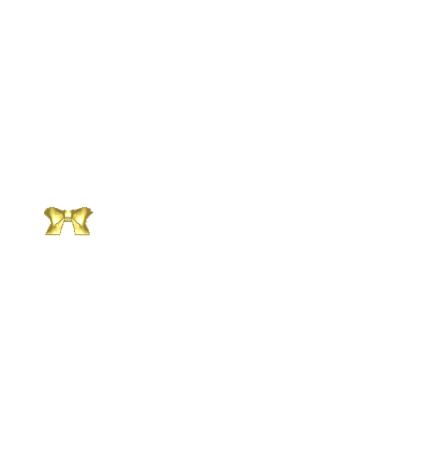
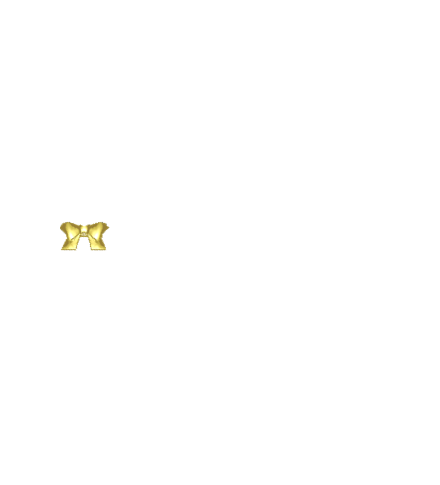
asset position fix 3

Changed region(s): [[0.092, 0.417, 0.2453, 0.5362]]

diff --git a/BondageClub/Assets/Female3DCG/Female3DCG.js b/BondageClub/Assets/Female3DCG/Female3DCG.js
@@ -1062,9 +1062,9 @@ var AssetFemale3DCG = [
         AllowPose: ["TapedHands", "Yoked", "AllFours", "OverTheHead"],
 		PreviewZone: [125, 265, 250, 250],
 		Asset: [
-			{ Name: "BowBand", Value: 5,},
-			{ Name: "KinkBracelet", Value: 5,},
-			{ Name: "LesBand", Value: 5,},
+			{ Name: "BowBand", Value: 20,},
+			{ Name: "KinkBracelet", Value: 25,},
+			{ Name: "LesBand", Value: 30,},
 		],
 		Color: ["Default", "#cccccc", "#aaaaaa", "#888888", "#666666", "#444444", "#222222", "#aa8080", "#80aa80", "#8080aa", "#aaaa80", "#80aaaa", "#aa80aa", "#cc3333", "#33cc33", "#3333cc", "#cccc33", "#33cccc", "#cc33cc"]
 	},
